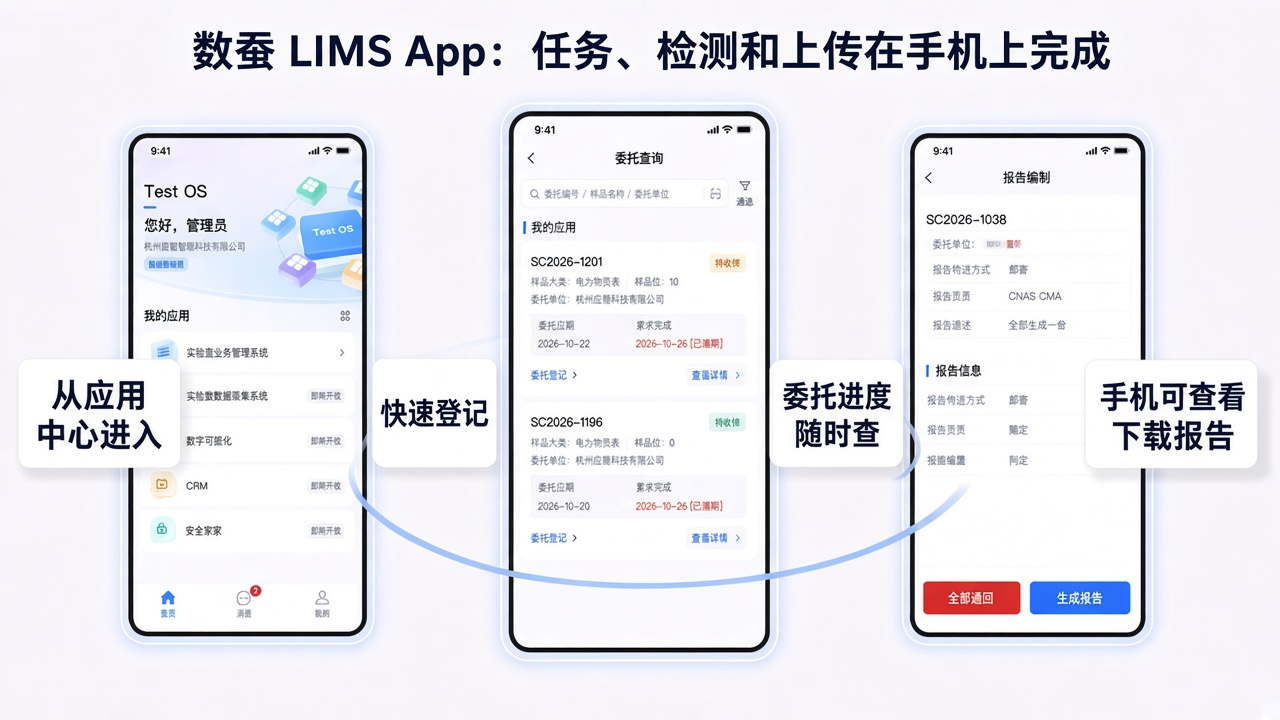
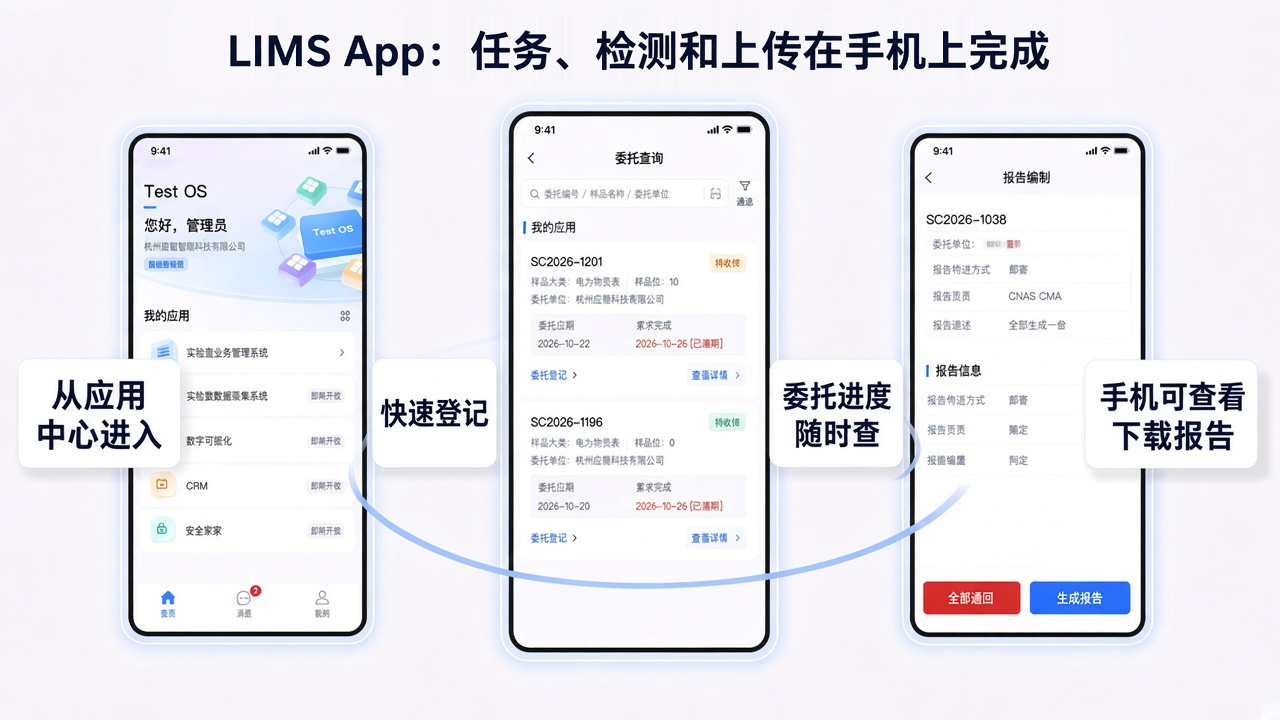
fix: 去掉两个 App 宣传图标题前的数蚕

Changed region(s): [[0.125, 0.0306, 0.875, 0.1222]]

diff --git a/shucan-lims-brochure.html b/shucan-lims-brochure.html
@@ -578,11 +578,11 @@
           <div class="pane">
             <div class="phones">
               <figure>
-                <img src="assets/brochure/08-collect-app.jpg" alt="数蚕 LIMS App 宣传示意，应用入口、委托查询和报告编制三个页面" />
+                <img src="assets/brochure/08-collect-app.jpg" alt="LIMS App 宣传示意，应用入口、委托查询和报告编制三个页面" />
                 <figcaption>LIMS App：快速登记，手机查看和下载报告</figcaption>
               </figure>
               <figure>
-                <img src="assets/brochure/07-lims-app.jpg" alt="数蚕数据采集 App 宣传示意，首页、检测列表和检测任务三个页面" />
+                <img src="assets/brochure/07-lims-app.jpg" alt="数据采集 App 宣传示意，首页、检测列表和检测任务三个页面" />
                 <figcaption>数据采集 App：今日任务，现场确认并上传</figcaption>
               </figure>
             </div>
